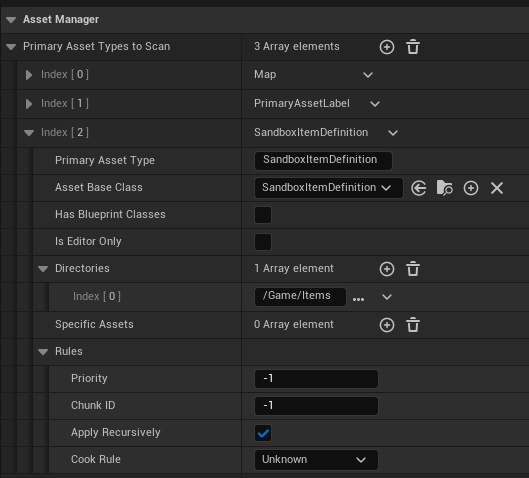
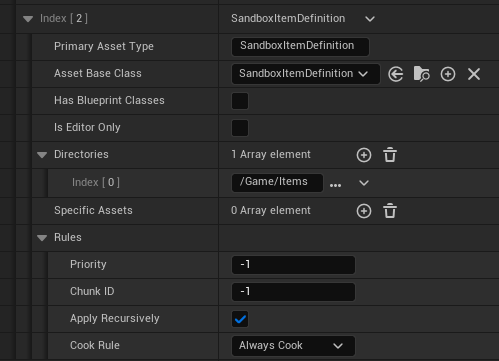
Quartz sync: Nov 9, 2025, 3:42 AM

diff --git a/content/Unreal Engine/Asset Management.md b/content/Unreal Engine/Asset Management.md
@@ -261,7 +261,7 @@ ASandboxItem* USandboxItemLibrary::SpawnItem(UObject* WorldContext, const USandb
 Since we just added a bunch of new reflected types, properties, and functions, make sure you compile [from your IDE](Live%20Coding) and we'll move on to setting up our new asset type in the editor.
 ### Setting up the asset type in the editor
 You'll now be able to create new Item Definitions in the right click menu via *Miscellaneous* > *Data Asset*.
-![[res/assetmanagement/imgNewItemDefinition.png]]
+![[res/assetmanagement/img/NewItemDefinition.png]]
 
 Before you do that though, you still need to add an asset entry so that the Asset Manager picks up the new asset type for the Asset Registry.
 #### Adding our new asset type to the Asset Manager
@@ -313,5 +313,3 @@ Now when we PIE, the "apple" should appear next to our character:
 The example of asset management in this article is only meant to show the basics and is by no means exhaustive. Most projects will require much more sophisticated asset management schemes tailored to their requirements. 
 
 This sample is missing the commonly-needed feature of pre-loading the basic asset (i.e. predicting what items are going to need to be loaded in the level) so that other classes only have to worry about loading their bundles. The implementation of this feature is usually highly-specialized to your game project's needs, so I deliberately omitted the implementation here.
-
-For an example of a sophisticated asset management system, see MagForceSeven's [StarfireAssets](https://github.com/MagForceSeven/Starfire/tree/main/StarfireAssets) module. This system requires integrating custom PRs to a source build of the engine so it's not usable on a vanilla installation of Unreal, however the philosophy behind it can be studied to research a solid asset management scheme in your project.
